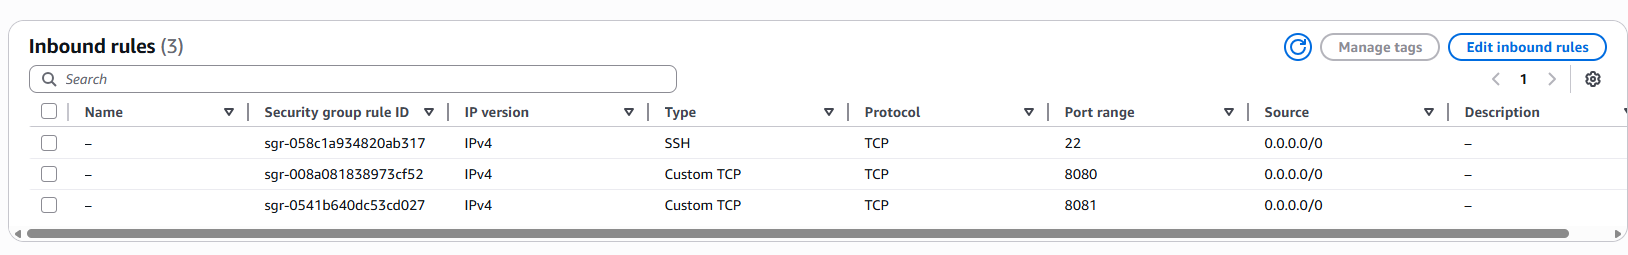
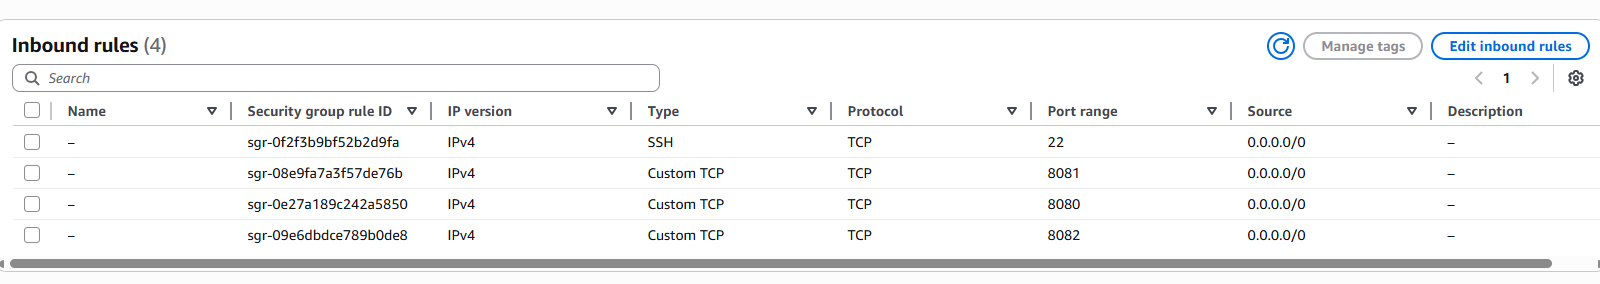
docs: video

diff --git a/proxi/target/classes/static/index.html b/proxi/target/classes/static/index.html
@@ -1,12 +1,12 @@
 <!DOCTYPE html>
 <html>
 <head>
-    <title>tribonacci Proxy Service</title>
+    <title>Fibonacci Proxy Service</title>
     <meta charset="UTF-8">
     <meta name="viewport" content="width=device-width, initial-scale=1.0">
 </head>
 <body>
-<h1>tribonacci with Proxy (Active-Passive)</h1>
+<h1>Fibonacci with Proxy (Active-Passive)</h1>
 <form>
     <label for="num">Number of elements:</label><br>
     <input type="text" id="num" name="num" value="10"><br><br>
@@ -22,7 +22,7 @@
         xhttp.onload = function() {
             document.getElementById("getrespmsg").innerHTML = this.responseText;
         }
-        xhttp.open("GET", "/proxy/tribonacci?value=" + n);
+        xhttp.open("GET", "/proxy/fibonacci?value=" + n);
         xhttp.send();
     }
 </script>

diff --git a/README.md b/README.md
@@ -113,8 +113,44 @@ Salida (JSON)
 
 # 2. correr la instancia en EC2
 
+## Ejecución 
+
+1. **Instancia 1 (Math Service):**
+   ```
+   cd instancia1
+   mvn spring-boot:run -Dspring-boot.run.arguments="--server.port=8081"
+   ```
+
+2. **Instancia 2 (Math Service):**
+   ```
+   cd instancia2
+   mvn spring-boot:run -Dspring-boot.run.arguments="--server.port=8082"
+   ```
+
+3. **Proxy:**
+   ```
+   cd proxi
+   export MATH_SERVICE_A_URL=http://localhost:8081
+   export MATH_SERVICE_B_URL=http://localhost:8082
+   mvn spring-boot:run
+   ```
+
+
 ## proxi
 
 ![img_5.png](img_5.png)
 
-## 
+## instancia 1
+
+![img_8.png](img_8.png)
+
+## instancia 2
+
+![img_9.png](img_9.png)
+
+
+## cuando los dos servers estan caidos
+![img_7.png](img_7.png)
+
+## video
+https://pruebacorreoescuelaingeduco-my.sharepoint.com/:v:/g/personal/juan_nieto-co_mail_escuelaing_edu_co/IQCo60igE_CkTJLTxdFe52FBAfmVjgOe9wrfNS15jeRqXgA?nav=eyJyZWZlcnJhbEluZm8iOnsicmVmZXJyYWxBcHAiOiJPbmVEcml2ZUZvckJ1c2luZXNzIiwicmVmZXJyYWxBcHBQbGF0Zm9ybSI6IldlYiIsInJlZmVycmFsTW9kZSI6InZpZXciLCJyZWZlcnJhbFZpZXciOiJNeUZpbGVzTGlua0NvcHkifX0&e=tHwrwy
